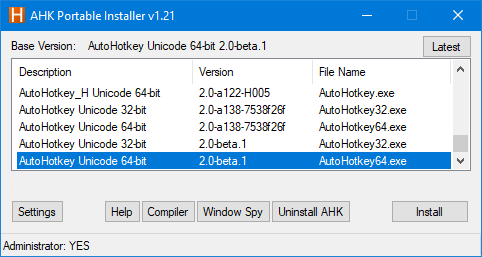
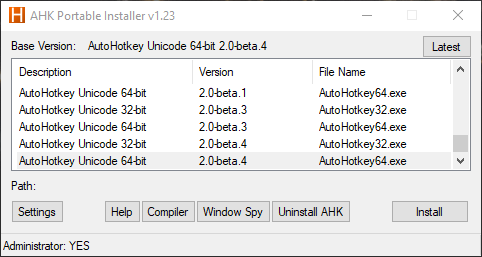
* updaded readme again * updated photo

diff --git a/README.md b/README.md
@@ -47,7 +47,7 @@ The default `base folder` is in `%A_ScriptDir%\versions`.
 
 ## Basic Setup
 
-Grab the latest copy of AHK v2 (currently recommended is beta.1), copy the desired version of `AutoHotkey32/64.exe` into the script dir and rename it to `AHK_Portable_Installer.exe`.  Always run this EXE file to launch the script.
+Grab the latest copy of AHK v2 (currently recommended is beta.4), copy the desired version of `AutoHotkey32/64.exe` into the script dir and rename it to `AHK_Portable_Installer.exe`.  Always run this EXE file to launch the script.
 
 Now you can download AutoHotkey through the UI.  Just click `Settings`, pick a major version from the DropDownList, then select/downlad your desired version(s).  To remove a version of AHK, right click on an entry in the main list, and select `Remove this version` from the context menu.
 
